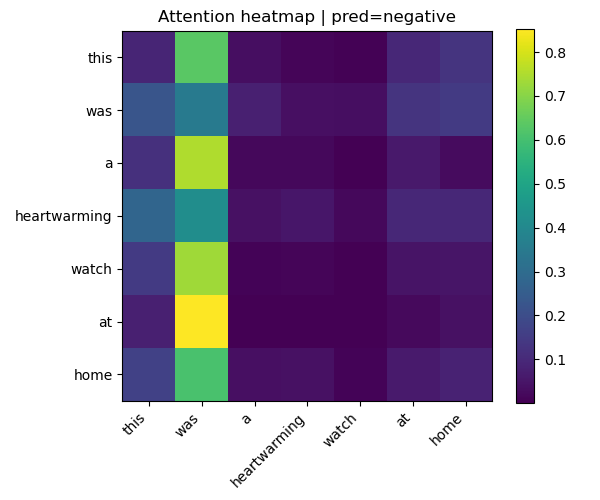
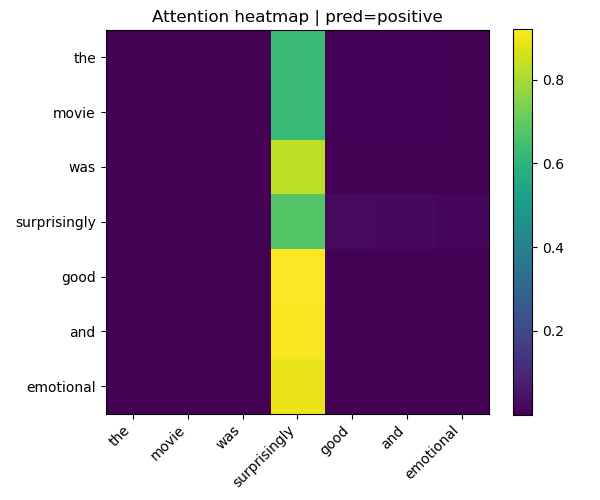
up

diff --git a/Seminar_final/run_improved.py b/Seminar_final/run_improved.py
@@ -23,7 +23,23 @@ def main():
     model = TransformerClassifier(meta["vocab_size"], 128, 256, meta["max_len"], meta["num_classes"], dropout=0.1)
     
     print("Running Improved Model (with Dropout & Padding Mask)...")
-    train_one_config("Transformer_d128_ff256_improved", model.to(device), train_loader, val_loader, test_loader, 20, 1e-3, device, results_dir)
+    result = train_one_config("Transformer_d128_ff256_improved", model.to(device), train_loader, val_loader, test_loader, 20, 1e-3, device, results_dir)
+
+    # Ghi kết quả vào summary.json
+    summary_path = results_dir / "summary.json"
+    if summary_path.exists():
+        with open(summary_path, "r", encoding="utf-8") as f:
+            summary = json.load(f)
+        # Xóa kết quả improved cũ nếu có (tránh trùng lặp)
+        summary = [s for s in summary if s["model_name"] != result["model_name"]]
+    else:
+        summary = []
+    
+    summary.append(result)
+    with open(summary_path, "w", encoding="utf-8") as f:
+        json.dump(summary, f, indent=2)
+    
+    print(f"\nKet qua da duoc luu vao: {summary_path}")
 
 if __name__ == "__main__":
     main()
